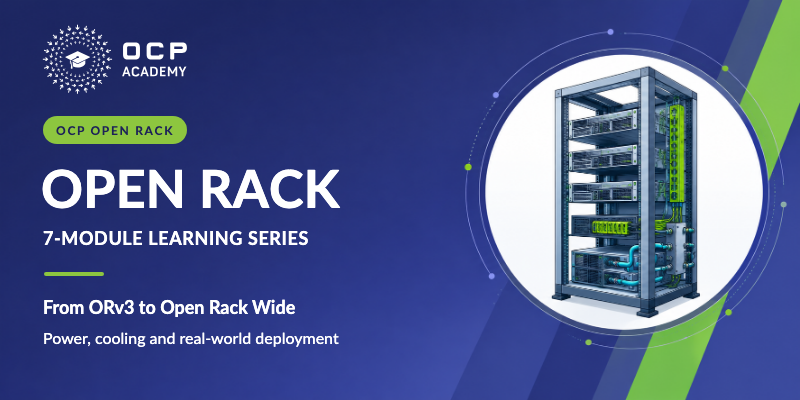
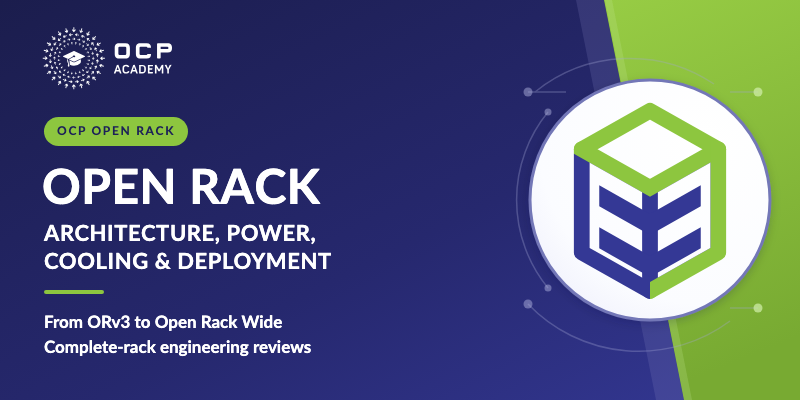
Match Open Rack poster to Academy catalog style

diff --git a/courses/open-rack-architecture-power-cooling-deployment/poster/poster.html b/courses/open-rack-architecture-power-cooling-deployment/poster/poster.html
@@ -1,0 +1,68 @@
+<!doctype html>
+<html lang="en">
+<head>
+<meta charset="utf-8">
+<meta name="viewport" content="width=800, initial-scale=1">
+<title>Open Rack: Architecture, Power, Cooling and Deployment — catalog poster</title>
+<style>
+@font-face{font-family:Lato;src:url(../../../skills/academy-wizard/assets/fonts/lato2-bold.woff) format('woff');font-weight:700;font-style:normal;font-display:block}
+*{box-sizing:border-box}
+html,body{margin:0;width:800px;height:400px;overflow:hidden}
+body{font-family:Lato,Arial,sans-serif;color:#fff;background:#1d2258}
+.poster{position:relative;width:800px;height:400px;overflow:hidden;isolation:isolate}
+.art{position:absolute;inset:0;width:800px;height:400px;z-index:-1}
+.logo{position:absolute;left:42px;top:26px;width:142px;height:64px;object-fit:contain;object-position:left center}
+.badge{position:absolute;left:44px;top:117px;padding:6px 13px 7px;border-radius:20px;background:#8dc63f;color:#1d2258;font-size:12px;line-height:16px;letter-spacing:1.7px;font-weight:700}
+h1{position:absolute;left:42px;top:157px;margin:0;font-size:48px;line-height:58px;letter-spacing:.5px;font-weight:700}
+.subtitle{position:absolute;left:44px;top:219px;font-size:22px;line-height:28px;letter-spacing:.6px;font-weight:700}
+.subtitle span{display:block;width:max-content}
+.divider{position:absolute;left:44px;top:290px;width:60px;height:4px;border-radius:2px;background:#8dc63f}
+.support{position:absolute;left:44px;top:309px;margin:0;font-size:17px;line-height:25px;font-weight:700}
+.support span{display:block;width:max-content}
+.mark{position:absolute;left:538px;top:88px;width:224px;height:224px;object-fit:contain}
+</style>
+</head>
+<body>
+<main class="poster" aria-label="OCP Academy — Open Rack: Architecture, Power, Cooling and Deployment">
+  <svg class="art" xmlns="http://www.w3.org/2000/svg" viewBox="0 0 800 400" aria-hidden="true">
+    <defs>
+      <linearGradient id="navy" x1="0" y1="0" x2="1" y2="1">
+        <stop stop-color="#1b1d4d"/><stop offset=".56" stop-color="#26286e"/><stop offset="1" stop-color="#343895"/>
+      </linearGradient>
+      <linearGradient id="rail" x1="0" y1="0" x2=".2" y2="1">
+        <stop stop-color="#97cc44"/><stop offset="1" stop-color="#78aa32"/>
+      </linearGradient>
+      <radialGradient id="face" cx=".72" cy=".25" r=".95">
+        <stop stop-color="#fff"/><stop offset=".72" stop-color="#fbfcff"/><stop offset="1" stop-color="#eeeffc"/>
+      </radialGradient>
+      <filter id="depth" x="-20%" y="-20%" width="140%" height="145%">
+        <feDropShadow dx="0" dy="3" stdDeviation="5" flood-color="#11143c" flood-opacity=".18"/>
+      </filter>
+    </defs>
+    <rect width="800" height="400" fill="url(#navy)"/>
+    <path d="M576 0H604L684 400H656Z" fill="#8588c5" opacity=".2"/>
+    <path d="M604 0H800V400H684Z" fill="url(#rail)"/>
+    <path d="M605 0H612L692 400H684Z" fill="#c4e897" opacity=".22"/>
+    <g fill="none" stroke="#a3a6d3" stroke-width="1.5" opacity=".33">
+      <path d="M548 112A139 139 0 0 0 548 288"/>
+      <path d="M535 92A151 151 0 0 1 714 84"/>
+      <path d="M528 304A153 153 0 0 0 730 321"/>
+      <path d="M528 92H566M730 92H758M730 308H758"/>
+    </g>
+    <g fill="#b1b4df" opacity=".48">
+      <circle cx="528" cy="92" r="4.5"/><circle cx="548" cy="112" r="3.5"/>
+      <circle cx="548" cy="288" r="3.5"/><circle cx="528" cy="304" r="4.5"/>
+    </g>
+    <g fill="#d3efac" opacity=".7"><circle cx="758" cy="92" r="4.5"/><circle cx="758" cy="308" r="4.5"/></g>
+    <circle cx="650" cy="200" r="120" fill="url(#face)" stroke="#7377b7" stroke-width="3" filter="url(#depth)"/>
+  </svg>
+  <img class="logo" src="../../../skills/academy-wizard/assets/ocp_academy_white.svg" alt="OCP Academy">
+  <div class="badge" data-poster-text>OCP OPEN RACK</div>
+  <h1 data-poster-text>OPEN RACK</h1>
+  <div class="subtitle"><span data-poster-text>ARCHITECTURE, POWER,</span><span data-poster-text>COOLING &amp; DEPLOYMENT</span></div>
+  <div class="divider" aria-hidden="true"></div>
+  <p class="support"><span data-poster-text>From ORv3 to Open Rack Wide</span><span data-poster-text>Complete-rack engineering reviews</span></p>
+  <img class="mark" src="../open-rack-mark.svg" alt="Open Structure — Open Rack course mark">
+</main>
+</body>
+</html>

diff --git a/courses/open-rack-architecture-power-cooling-deployment/README.md b/courses/open-rack-architecture-power-cooling-deployment/README.md
@@ -8,6 +8,8 @@ One narrated, seven-module **Slides** course for OCP Academy: 112 slides, 100 na
 
 This course replaces the seven independent Scrolling courses formerly under `courses/open-rack-v3/`. Those English course folders and their 49 translated editions are removed in this replacement, not retained as parallel active courses. The new source is English-only; the previous translations do not represent this revised curriculum. Earlier source remains recoverable from Git history. See [replacement provenance](provenance/replacement.json).
 
+New editions in all seven previous languages are tracked in [translation issue #124](https://github.com/opencomputeproject/ocp-academy-courses/issues/124).
+
 This consolidates seven separately uploaded courses into one SCORM 1.2 package with separately tracked content modules. Do not assume old bookmarks, attempts or completions transfer. Export needed LMS reports and test a separate upload before retiring prior LMS material. Repository replacement does not delete or modify live LMS content.
 
 The approved LMS syllabus has **eight entries: Course Home first, then Modules 1–7**. Course Home completes on launch; content-module completion and quiz gates remain independent. This Home choice was explicitly confirmed on 2 November 2026.
@@ -25,6 +27,18 @@ The approved LMS syllabus has **eight entries: Course Home first, then Modules 1
 | 7 | Liquid Cooling, Serviceability and the Integrated Design Review | 22 min |
 
 Formal LMS title, short description and long description are maintained separately in [lms-catalog.md](lms-catalog.md) and [lms-catalog.json](lms-catalog.json), generated from `course.json.lms_catalog`.
+
+## Catalog poster
+
+`thumbnail.png` is the 800×400 Academy catalog poster, matching the SST/AICC navy-and-green treatment and using the approved Open Structure mark. The editable source is [poster/poster.html](poster/poster.html); it reuses the repository's authoritative Academy logo and bundled Lato font rather than rasterized rack artwork.
+
+With Playwright available, regenerate it from the repository root:
+
+```bash
+node courses/open-rack-architecture-power-cooling-deployment/poster/render.mjs
+```
+
+The renderer checks text bounds and local asset loading, writes the course thumbnail, and saves 400×200 and 240×120 inspection previews under the ignored `build/poster-qa/open-rack/` directory. The catalog poster is delivered separately from the SCORM runtime; replacing it does not change the existing ZIP.
 
 ## Editable source and rebuilding
 
